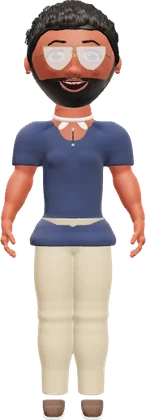
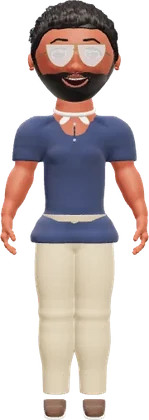
Face and body: real stubble, deeper eyes, softer cheeks, balanced head
- Stubble: fine hair dots plus a soft shadow on a skin-hugging layer, with
  density fading at the edges (was a flat tinted mask with a hard line)
- Eyes: ~30% larger irises with a darker limbal ring (more expressive)
- Cheeks: broader, softer fullness (a smooth curve, not a bump)
- Head a little smaller relative to the body (closer to the references)
- Starter / welcome pictures re-rendered; sculpt v47, thumbnails v26

Claude-Session: https://claude.ai/code/session_011n7UBMF7siA6WHFHfiWuWV

diff --git a/src/features/avatar/render/Face.tsx b/src/features/avatar/render/Face.tsx
@@ -1,5 +1,5 @@
 import { useSculpt } from '../sculpt3d/async';
-import { useMemo, useRef } from 'react';
+import { useEffect, useMemo, useRef } from 'react';
 import { useFrame } from '@react-three/fiber';
 import * as THREE from 'three';
 import { mix, shellGeometry, smooth, softDot, surfaceShape, surfaceTube, surfaceZ, wobble, type HeadShape } from '../sculpt';
@@ -185,11 +185,11 @@ function Eyes({ f, ex, ey, er }: { f: FaceProps; ex: number; ey: number; er: num
                     <meshPhysicalMaterial color="#fbf8f4" roughness={0.2} clearcoat={1} clearcoatRoughness={0.08} emissive="#ffffff" emissiveIntensity={0.12} />
                   </mesh>
                   <mesh rotation={[Math.PI / 2, 0, 0]}>
-                    <sphereGeometry args={[er * 1.004, 32, 8, 0, Math.PI * 2, 0, p.iris + 0.1]} />
-                    <meshStandardMaterial color={mix(f.colors.eyes, '#000000', 0.35)} roughness={0.3} />
+                    <sphereGeometry args={[er * 1.004, 32, 8, 0, Math.PI * 2, 0, Math.min(1.1, p.iris * 1.32) + 0.08]} />
+                    <meshStandardMaterial color={mix(f.colors.eyes, '#000000', 0.6)} roughness={0.3} />
                   </mesh>
                   <mesh rotation={[Math.PI / 2, 0, 0]}>
-                    <sphereGeometry args={[er * 1.007, 32, 8, 0, Math.PI * 2, 0, p.iris]} />
+                    <sphereGeometry args={[er * 1.007, 32, 8, 0, Math.PI * 2, 0, Math.min(1.1, p.iris * 1.32)]} />
                     <meshPhysicalMaterial color={f.colors.eyes} roughness={0.25} clearcoat={1} emissive={f.colors.eyes} emissiveIntensity={0.12} />
                   </mesh>
                   <mesh rotation={[Math.PI / 2, 0, 0]}>
@@ -547,19 +547,54 @@ function Tears({ h, ex, ey, er }: { h: HeadShape; ex: number; ey: number; er: nu
 
 /* ---------------------------------------------------------------- Beard */
 
+/**
+ * Stubble: fine dark hair dots on the skin whose density follows the beard shape (vertex
+ * attribute `density`) and thins out at its edges — not a tinted mask.
+ */
+function useStubbleMat(color: string, amount: number) {
+  const mat = useMemo(() => {
+    const m = new THREE.MeshStandardMaterial({ roughness: 0.95, transparent: true, depthWrite: false, polygonOffset: true, polygonOffsetFactor: -1 });
+    m.userData.u = { uAmt: { value: amount } };
+    m.onBeforeCompile = (sh) => {
+      Object.assign(sh.uniforms, m.userData.u);
+      sh.vertexShader = sh.vertexShader
+        .replace('#include <common>', '#include <common>\nattribute float density;\nvarying float vDen;\nvarying vec3 vSP;')
+        .replace('#include <begin_vertex>', '#include <begin_vertex>\nvDen = density; vSP = position;');
+      sh.fragmentShader = sh.fragmentShader
+        .replace('#include <common>', '#include <common>\nuniform float uAmt;\nvarying float vDen;\nvarying vec3 vSP;\nfloat bHash(vec3 p) { return fract(sin(dot(p, vec3(127.1, 311.7, 74.7))) * 43758.5453); }')
+        .replace(
+          '#include <color_fragment>',
+          `#include <color_fragment>
+float d = clamp(vDen, 0.0, 1.0);
+float dots = step(1.0 - d * 0.6, bHash(floor(vSP * 900.0)));
+float shadow = d * d * (0.32 + 0.25 * uAmt);
+diffuseColor.a = clamp(shadow + dots * d * 0.18, 0.0, 0.72);`,
+        );
+    };
+    return m;
+    // eslint-disable-next-line react-hooks/exhaustive-deps
+  }, []);
+  useEffect(() => {
+    mat.color.set(color);
+    (mat.userData.u as { uAmt: { value: number } }).uAmt.value = amount;
+  }, [mat, color, amount]);
+  return mat;
+}
+
 function Beard({ h, p, color, mouthY }: { h: HeadShape; p: BeardP; color: string; mouthY: number }) {
   const geo = useMemo(() => {
     if (p.beard <= 0 && p.stubble <= 0) return null;
     const my = mouthY / (h.ry * h.chinLow);
     const thick = p.beard > 0 ? p.beard * 0.6 : 0.006; // close-trimmed, sculpted
-    return shellGeometry(h, (ux, uy, uz, az) => {
+    const ms: number[] = []; // beard density per vertex (same order as the sphere's vertices)
+    const g = shellGeometry(h, (ux, uy, uz, az) => {
       let m: number;
       if (p.chinOnly > 0) {
         m = smooth(-0.08, 0.02, uz) * smooth(p.chinW + 0.08, p.chinW, Math.abs(ux)) * smooth(my - 0.05, my - 0.15, uy);
         if (p.soul) m = Math.max(m, smooth(0.08, 0.04, Math.abs(ux)) * smooth(my - 0.04, my - 0.08, uy) * smooth(my - 0.2, my - 0.14, uy));
       } else {
         const front = smooth(-0.35, -0.1, uz);
-        const below = smooth(my + 0.03 + p.cheekLine * 0.35, my - 0.03 + p.cheekLine * 0.15, uy) * (1 - 0.6 * smooth(0.45, 0.2, Math.abs(ux)) * smooth(my + 0.12, my + 0.22, uy));
+        const below = smooth(my + 0.1 + p.cheekLine * 0.35, my - 0.05 + p.cheekLine * 0.15, uy) * (1 - 0.6 * smooth(0.45, 0.2, Math.abs(ux)) * smooth(my + 0.12, my + 0.22, uy));
         const side = smooth(1.12, 1.4, Math.abs(az)) * smooth(1.9, 1.65, Math.abs(az)) * smooth(0.02, -0.1, uy) * p.sides; // sideburns stay by the ears
         const mouthHole = smooth(0.8, 1.05, (ux / 0.36) ** 2 + ((uy - my + 0.07) / 0.13) ** 2); // an oval hugging the full open grin
         const chinGap = p.chinOnly < 0 ? 1 - smooth(0.3, 0.15, Math.abs(ux)) : 1; // mutton chops leave the chin bare
@@ -567,9 +602,15 @@ function Beard({ h, p, color, mouthY }: { h: HeadShape; p: BeardP; color: string
       }
       const lumps = p.beard > 0.06 ? 0.012 * wobble(ux, uy, uz, 2.4) : 0;
       const drop = p.drop * smooth(-0.6, -0.95, uy) * smooth(0, 0.4, uz) * (1 + p.curl * 0.2 * wobble(ux, uy, uz, 4));
+      ms.push(m);
+      // stubble only: a thin skin-hugging layer everywhere (its density shader decides where it shows),
+      // so there is no line where a shell would cut through the skin
+      if (p.beard <= 0) return 1.006;
       return 0.985 + (thick + 0.015 + lumps + drop) * m;
-    }, 72, 56);
+    }, 96, 72, ms);
+    return g;
   }, [p, h, mouthY]);
+  const stubble = useStubbleMat(color, p.stubble);
 
   const tache = useMemo(() => {
     if (!p.tache) return null;
@@ -593,8 +634,8 @@ function Beard({ h, p, color, mouthY }: { h: HeadShape; p: BeardP; color: string
   return (
     <>
       {geo && (
-        <mesh geometry={geo} castShadow={p.beard > 0}>
-          <HairMat color={color} opacity={p.beard > 0 ? 1 : Math.max(0.2, p.stubble * 0.75)} />
+        <mesh geometry={geo} castShadow={p.beard > 0} material={p.beard > 0 ? undefined : stubble}>
+          {p.beard > 0 && <HairMat color={color} />}
         </mesh>
       )}
       {geo && p.beard > 0 && p.stubble > 0 && null}

diff --git a/src/features/avatar/sculpt.ts b/src/features/avatar/sculpt.ts
@@ -86,7 +86,8 @@ export function surfaceZ(h: HeadShape, x: number, y: number) {
 }
 
 /** A sphere sculpted onto the head surface, with a per-direction radial multiplier. */
-export function shellGeometry(h: HeadShape, radial: (ux: number, uy: number, uz: number, az: number) => number, w = 64, hs = 48) {
+/** `density`: optional per-vertex values filled by `radial` (one per call), kept through the vertex merge. */
+export function shellGeometry(h: HeadShape, radial: (ux: number, uy: number, uz: number, az: number) => number, w = 64, hs = 48, density?: number[]) {
   const g = new THREE.SphereGeometry(1, w, hs);
   const p = g.attributes.position;
   const v = new THREE.Vector3();
@@ -97,6 +98,7 @@ export function shellGeometry(h: HeadShape, radial: (ux: number, uy: number, uz:
   }
   g.deleteAttribute('uv');
   g.deleteAttribute('normal');
+  if (density && density.length === p.count) g.setAttribute('density', new THREE.Float32BufferAttribute(density, 1));
   const m = mergeVertices(g, 1e-4);
   m.computeVertexNormals();
   g.dispose();

diff --git a/src/features/avatar/sculpt3d/head.ts b/src/features/avatar/sculpt3d/head.ts
@@ -34,7 +34,8 @@ function build(h: HeadShape, nose: NoseP | null, ears: EarP): THREE.BufferGeomet
   const ex = 0.127 * (h.rx / 0.35), ey = -0.025;
   const at = (x: number, y: number, inset: number): V3 => [x, y, surfaceZ(h, x, y) - inset];
   const soft: Prim[] = [];
-  for (const s of [-1, 1]) soft.push({ t: 'ellipsoid', c: at(s * (ex + 0.03), ey - 0.085, 0.042), r: [0.055, 0.04, 0.04], rot: [0, s * 0.5, 0], bone: 0, k: 0.02 });
+  // (very soft and broad, so the cheek reads as a smooth curve, not a bump)
+  for (const s of [-1, 1]) soft.push({ t: 'ellipsoid', c: at(s * (ex + 0.03), ey - 0.085, 0.052), r: [0.07, 0.05, 0.045], rot: [0, s * 0.5, 0], bone: 0, k: 0.035 });
   parts.push({ prims: soft, k: 0.028 });
 
   // ------------------------------------------------------------ nose (same placement as before)

diff --git a/src/features/avatar/editor/thumbs.tsx b/src/features/avatar/editor/thumbs.tsx
@@ -54,7 +54,7 @@ const cache = new Map<string, string>();
  * opens instantly on later visits. Bump the version whenever the renderer
  * changes how variants look.
  */
-const STORE = 'snv-thumbs-v25';
+const STORE = 'snv-thumbs-v26';
 const storeKey = (key: string) => `/__thumb/${encodeURIComponent(key)}`;
 async function fromStore(key: string): Promise<string | null> {
   try {

diff --git a/src/features/avatar/sculpt3d/anatomy.ts b/src/features/avatar/sculpt3d/anatomy.ts
@@ -43,8 +43,8 @@ export const PARENT: number[] = (() => {
 export const REST_ARM = 0.17;
 
 /** Head centre in body space (the face/hair rig hangs off it) and its scale. */
-export const HEAD_Y = 2.05;
-export const HEAD_SCALE = 0.75;
+export const HEAD_Y = 2.03;
+export const HEAD_SCALE = 0.7;
 
 export interface Joints {
   /** world-space rest position of every bone */

diff --git a/src/features/avatar/sculpt3d/jobs.ts b/src/features/avatar/sculpt3d/jobs.ts
@@ -22,7 +22,7 @@ export type Job =
   | { k: 'head'; h: HeadShape; nose: NoseP | null; ears: EarP };
 
 /** Bump when any sculpt builder changes its output (invalidates the on-device cache). */
-export const SCULPT_VERSION = 46;
+export const SCULPT_VERSION = 47;
 
 const r3 = (n: number) => Math.round(n * 1000) / 1000;
 export function jobKey(j: Job): string {
